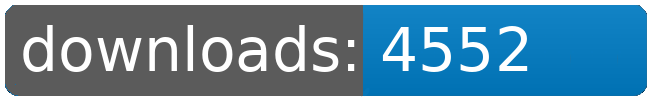
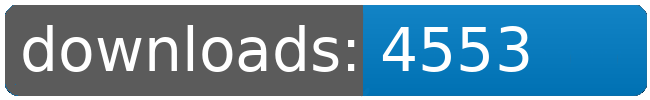
dl log written

Changed region(s): [[0.7692, 0.42, 0.8308, 0.72], [0.7692, 0.27, 0.8308, 0.39]]

diff --git a/README.md b/README.md
@@ -21,8 +21,8 @@
 		<td>4520</td>
 		<td>4544</td>
 		<td>4568</td>
-		<td>4588</td>
-		<td>+ 20</td>
+		<td>4590</td>
+		<td>+ 22</td>
 	</tr>
 	<tr>
 		<td>Factory.Outlets</td>
@@ -32,8 +32,8 @@
 		<td>4492</td>
 		<td>4516</td>
 		<td>4536</td>
-		<td>4552</td>
-		<td>+ 16</td>
+		<td>4553</td>
+		<td>+ 17</td>
 	</tr>
 	<tr>
 		<td>Fundamental.Outfit.Expansion</td>
@@ -109,8 +109,8 @@
 		<td></td>
 		<td></td>
 		<td></td>
-		<td>37950</td>
-		<td>131</td>
+		<td>37953</td>
+		<td>134</td>
 	</tr>
 </table>
 </sub></sup>
@@ -168,8 +168,8 @@
 		<td>4520</td>
 		<td>4544</td>
 		<td>4568</td>
-		<td>4588</td>
-		<td>+ 20</td>
+		<td>4590</td>
+		<td>+ 22</td>
 	</tr>
 	<tr>
 		<td>Solar.Sails</td>
@@ -190,8 +190,8 @@
 		<td>4492</td>
 		<td>4516</td>
 		<td>4536</td>
-		<td>4552</td>
-		<td>+ 16</td>
+		<td>4553</td>
+		<td>+ 17</td>
 	</tr>
 	<tr>
 		<td>Jaws</td>
@@ -223,8 +223,8 @@
 		<td></td>
 		<td></td>
 		<td></td>
-		<td>37950</td>
-		<td>131</td>
+		<td>37953</td>
+		<td>134</td>
 	</tr>
 </table>
 </sub></sup>
